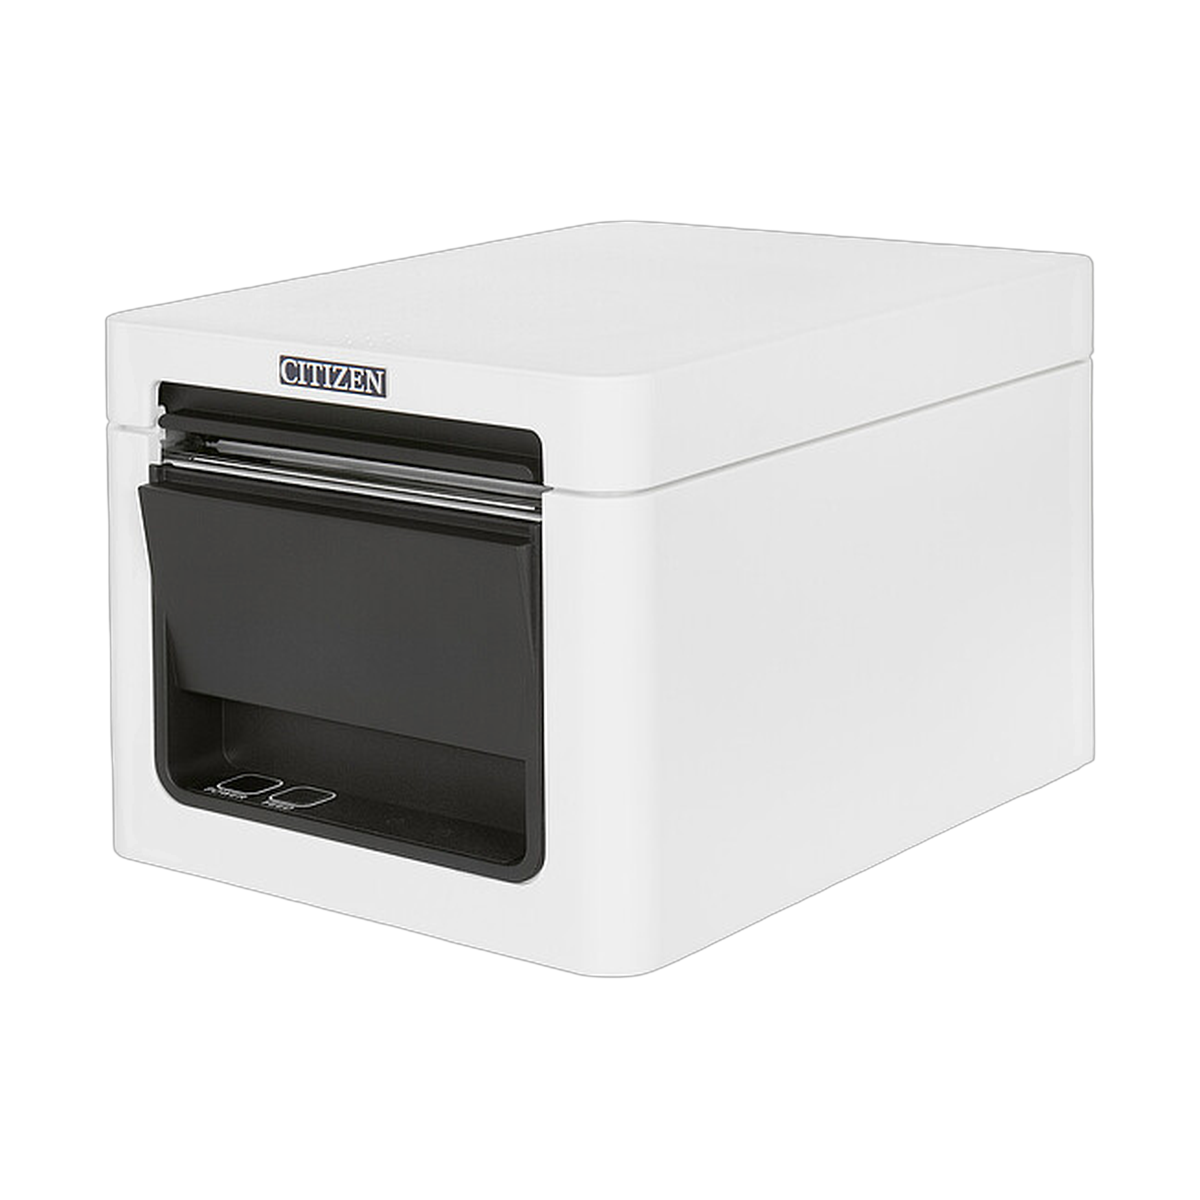
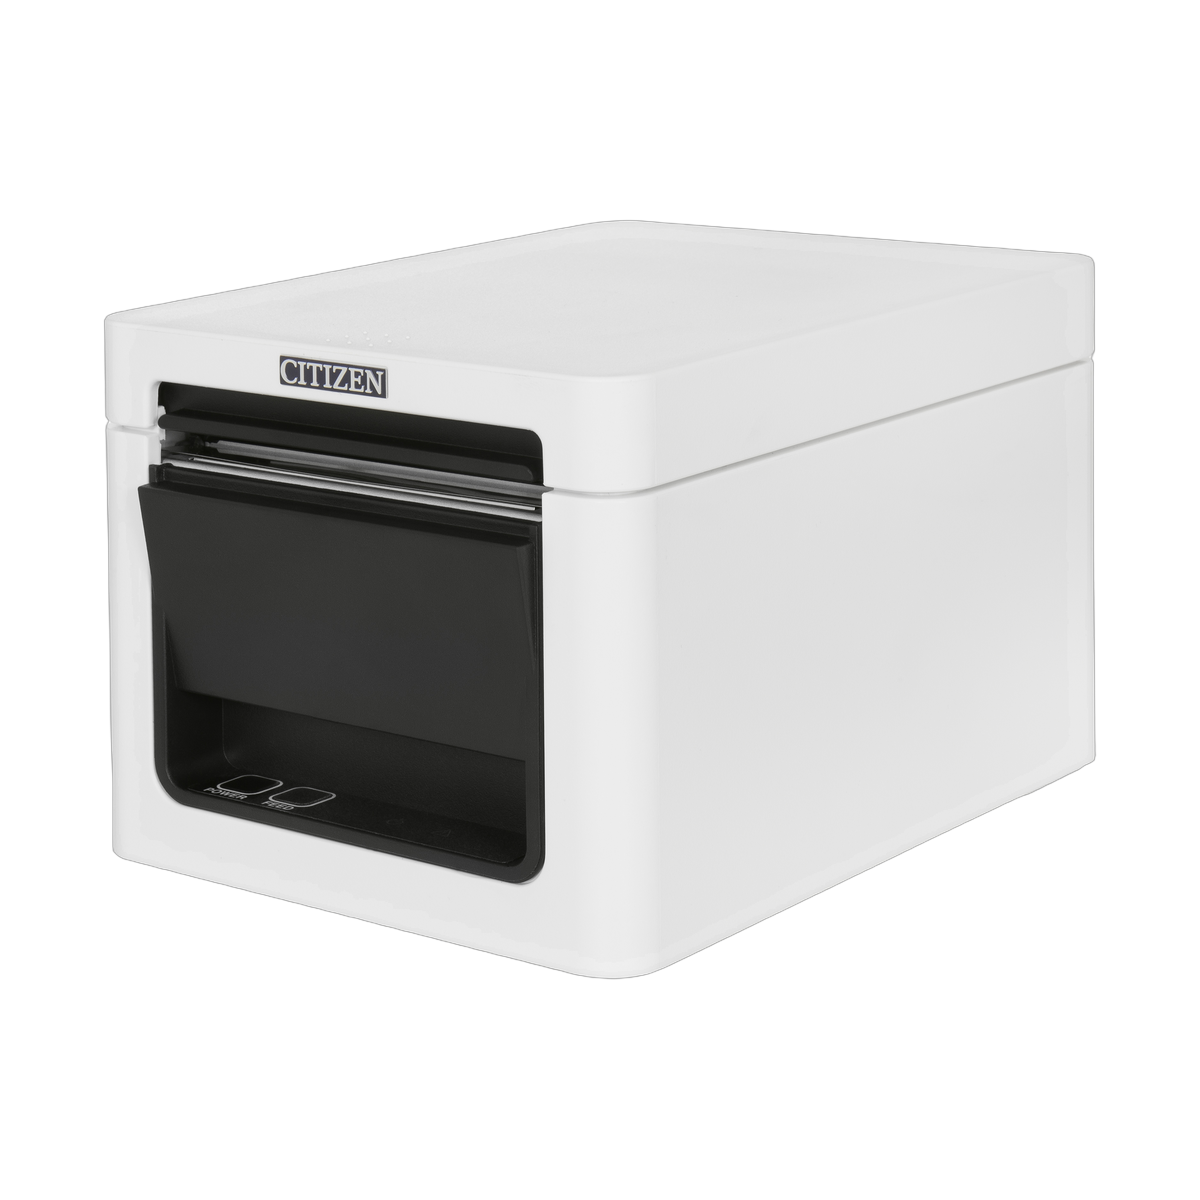
Zdjęcia Citizen POS po audytach: czarne zdjęcie główne CT-S310II, CT-E651L bez białej wersji, CT-E351 w wysokiej rozdzielczości
- CT-S310II: czarny front jako zdjęcie główne (domyślny PN CTS310IIEBK jest czarny), zamiana plików 1 i 2 i ich wpisów w mapach
- CT-E651L: usunięte białe zdjęcie (oferta ma tylko wersję czarną), numeracja -3 → -2, -4 → -3 w plikach i mapach
- CT-E351 -6: oryginał Citizen_CT-E651_White_POS.jpg (ta sama obudowa) zamiast powiększonej miniatury 750 px, obróbka jak CTE651XNEBX-6
- opisy zdjęć: CT-S751 -5 (opcjonalna karta Ethernet z portami USB host), CT-S4500 -3 (opcjonalna karta Ethernet)

diff --git a/src/data/citizen-pos-products.ts b/src/data/citizen-pos-products.ts
@@ -503,8 +503,8 @@ export const citizenPosProducts: Product[] = [
       "/images/products/CTS310IIEBK-5.png"
     ],
     "imageDescriptions": [
-      "Citizen CT-S310II w białej obudowie — widok z przodu pod kątem: pokrywa papieru, przycisk FEED i diody POWER i ERROR",
       "Citizen CT-S310II w czarnej obudowie — widok z przodu: przycisk FEED, diody POWER i ERROR",
+      "Citizen CT-S310II w białej obudowie — widok z przodu pod kątem: pokrywa papieru, przycisk FEED i diody POWER i ERROR",
       "Citizen CT-S310II w białej obudowie — widok z przodu",
       "Citizen CT-S310II w wersji z USB i RS-232 — złącza z tyłu: gniazdo zasilania, złącze szuflady kasowej, RS-232 i USB",
       "Citizen CT-S310II w białej obudowie — otwarta pokrywa komory papieru"
@@ -1225,12 +1225,10 @@ export const citizenPosProducts: Product[] = [
     "images": [
       "/images/products/CTE651XNEBXL.png",
       "/images/products/CTE651XNEBXL-2.png",
-      "/images/products/CTE651XNEBXL-3.png",
-      "/images/products/CTE651XNEBXL-4.png"
+      "/images/products/CTE651XNEBXL-3.png"
     ],
     "imageDescriptions": [
       "Citizen CT-E651L w czarnej obudowie — etykieta z kodem kreskowym w wylocie, widok z przodu pod kątem",
-      "Citizen CT-E651L w białej obudowie — etykieta z kodem kreskowym w wylocie, widok z przodu",
       "Citizen CT-E651L — widok z tyłu: złącze szuflady kasowej, gniazdo zasilania, USB i zaślepione gniazdo karty interfejsu",
       "Citizen CT-E651L — otwarta pokrywa komory papieru z rolką"
     ],
@@ -1448,7 +1446,7 @@ export const citizenPosProducts: Product[] = [
       "Citizen CT-S751 w białej obudowie — panel z przodu: przyciski POWER i FEED, diody stanu",
       "Citizen CT-S751 w czarnej obudowie — przednia klapa otwarta do włożenia rolki papieru, widok z przodu pod kątem",
       "Citizen CT-S751 w czarnej obudowie — widok z boku, przednia klapa otwarta z rolką papieru",
-      "Citizen CT-S751 — widok od spodu, złącza na tylnej krawędzi",
+      "Citizen CT-S751 — widok od spodu: złącza na tylnej krawędzi i opcjonalna karta Ethernet z portami USB host",
       "Citizen CT-S751 w czarnej i białej obudowie — paragony w wylotach papieru"
     ],
     "tags": [
@@ -2125,7 +2123,7 @@ export const citizenPosProducts: Product[] = [
     "imageDescriptions": [
       "Citizen CT-S4500 w czarnej obudowie — widok z przodu pod kątem: okienko podglądu papieru w pokrywie i wylot z przodu",
       "Citizen CT-S4500 — widok z przodu: wylot papieru, diody i przycisk FEED",
-      "Citizen CT-S4500 — widok z tyłu: złącza i gniazdo karty interfejsu z zamontowaną kartą sieciową",
+      "Citizen CT-S4500 — widok z tyłu: złącza i gniazdo karty interfejsu z zamontowaną opcjonalną kartą Ethernet",
       "Citizen CT-S4500 — pokrywa otwarta do góry, papier w komorze",
       "Citizen CT-S4500 w białej obudowie — wydruk w wylocie z przodu",
       "Citizen CT-S4500 w białej obudowie — widok z boku z otwartą pokrywą i rolką papieru"
